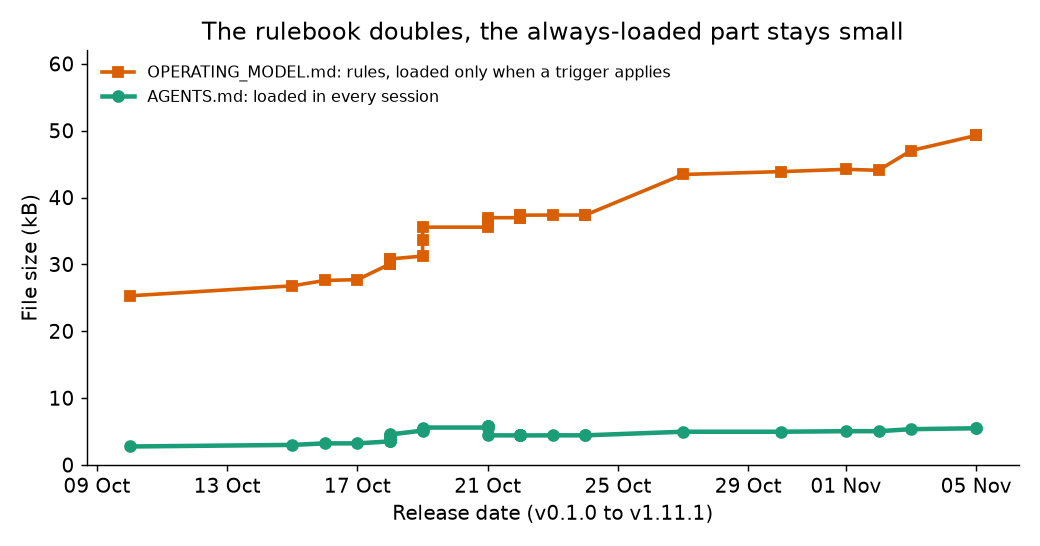
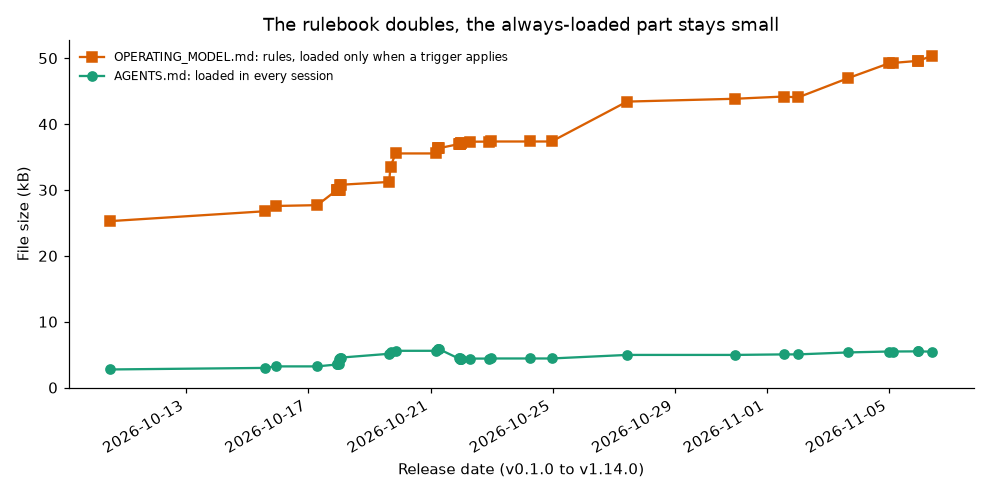
TASK-190: refresh results page (291 sessions, 14 projects, data to 2026-11-07)

diff --git a/docs/RESULTS.md b/docs/RESULTS.md
@@ -1,27 +1,27 @@
 # Results from using STEM on itself
 
-Three curves from the author's own work. They are **dogfooding data, not a benchmark**: 164 Claude Code sessions in 11 projects, one user, 2026-10-03 to 2026-11-05, no control group without STEM. Numbers only; no project names or session content. A controlled comparison (STEM vs. a plain agent) is planned as experiment G2 in [EXPERIMENTS.md](agent/EXPERIMENTS.md).
+Three curves from the author's own work. They are **dogfooding data, not a benchmark**: 291 Claude Code sessions in 14 projects, one user, 2026-10-03 to 2026-11-07, no control group without STEM. Numbers only; no project names or session content. A controlled comparison (STEM vs. a plain agent) is planned as experiment G2 in [EXPERIMENTS.md](agent/EXPERIMENTS.md).
 
 ## 1. Traceability: commits that carry a task ID
 
 ![Share of commits with a task ID per week](assets/results-traceability.png)
 
-Between 72 % and 94 % of all commits reference a backlog task, in every week, and the latest week is the highest (94 %). A commit with a task ID can be traced to a goal, a plan and evidence lines. Time windows tie commits to sessions, so the figures are approximate.
+Between 56 % and 91 % of all commits reference a backlog task, in every week; the latest week is the highest (91 %), after a dip to 56 % in mid-October. A commit with a task ID can be traced to a goal, a plan and evidence lines. Time windows tie commits to sessions, so the figures are approximate.
 
 ## 2. The rulebook grows, the always-loaded part does not
 
 ![AGENTS.md vs OPERATING_MODEL.md size per release](assets/results-always-loaded.png)
 
-From v0.1.0 to v1.11.1 the rules file roughly doubled (25 kB to 49 kB), but `AGENTS.md`, the only file loaded in every session, stays at about 5 kB (roughly 1.5k tokens). Rules are loaded by ID when their trigger applies. Sizes are taken from the release tags.
+From v0.1.0 to v1.14.0 the rules file doubled (25 kB to 50 kB), while `AGENTS.md`, the only file loaded in every session, grew from 2.8 kB to 5.5 kB (roughly 1.5k tokens) and has stayed there since late October. Rules are loaded by ID when their trigger applies. Sizes are taken from the release tags.
 
 ## 3. Sessions stay manageable
 
 ![Median peak context per week](assets/results-session-size.png)
 
-The median peak context of a session fell from several hundred thousand tokens in the first weeks to about 140k since 2026-10-19 (the earlier weeks rest on 2 to 5 sessions each). The handoff rule (start a new session by about 100k) and the context notice are the intended cause, but this data cannot prove it; session habits changed too.
+The median peak context of a session fell from several hundred thousand tokens in the first weeks to 129k to 140k since 2026-10-19 (the earlier weeks rest on 2 to 5 sessions each). The handoff rule (start a new session by about 100k) and the context notice are the intended cause, but this data cannot prove it; session habits changed too.
 
 ## What these curves do not show
 
 - Not a with/without comparison, and not generalised beyond one user.
 - Not fewer model calls per task: that figure stayed flat in the same period.
-- The start context of a session (about 58k at the start, about 74k now) is mostly Claude Code itself, global settings and tools, not STEM.
+- The start context of a session (about 58k at the start, about 71k now) is mostly Claude Code itself, global settings and tools, not STEM.
